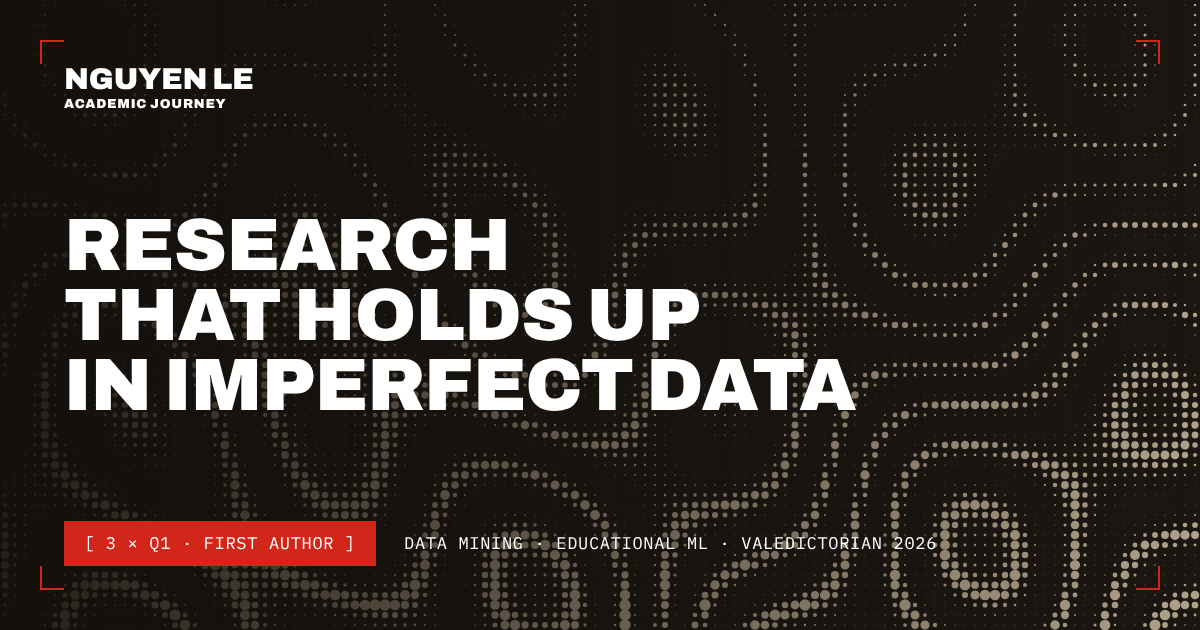
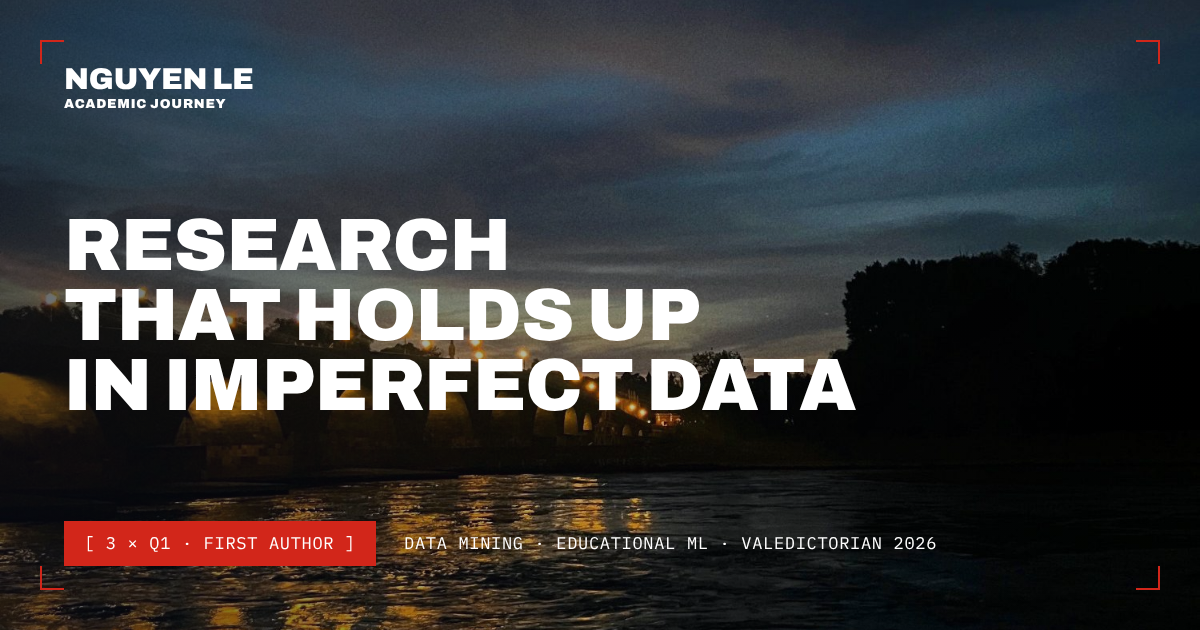
Cover photo, the Regensburg semester in depth, figures from PLOS ONE
- the owner's photo of the Stone Bridge, Regensburg, is the new home cover
  (wide/tall crops, WebP + JPEG, slow Ken Burns drift paused off-screen)
  and the Regensburg route image; Open Graph image rebuilt on it
- Regensburg route rewritten from the exchange report: eleven steps from
  the award to the return, four numbers, four lessons, and a map whose
  trips draw themselves on scroll (DrawSVG) along the Danube
- TUFCI page shows figures 2, 3 and 5 from the open-access PLOS ONE
  paper with CC BY credit
- real photos keep their colours; the film tone is for drawn plates

Claude-Session: https://claude.ai/code/session_01Q8sP7Lvae2Asv5Z9CJRCnd

diff --git a/portfolio/src/data/site.ts b/portfolio/src/data/site.ts
@@ -24,6 +24,7 @@ export type Route = {
   stats: { label: string; value: string }[];
   steps: { when: string; where: string; title: string; body: string }[];
   cta: { label: string; href: string };
+  figures?: { src: string; caption: string; credit: string }[]; // reusable figures from the paper
 };
 
 export const routes: Route[] = [
@@ -53,6 +54,11 @@ export const routes: Route[] = [
       { when: "17/06/2026", where: "PLOS ONE 21(6)", title: "Arrival", body: "Published as e0351951. Le, N., Vo, H., & Nguyen, T. Code and data on GitHub." },
     ],
     cta: { label: "Read in PLOS ONE", href: "https://doi.org/10.1371/journal.pone.0351951" },
+    figures: [
+      { src: "media/papers/tufci-fig2.webp", caption: "Fig 2. Traversal order. Depth-first search wastes work on low-support nodes before it reaches the strong one; best-first search visits it first, raises the threshold and prunes the rest.", credit: "Le, Vo & Nguyen (2026), PLOS ONE 21(6): e0351951, CC BY 4.0" },
+      { src: "media/papers/tufci-fig3.webp", caption: "Fig 3. Runtime against the external baselines TopKPFIM and ITUFP on Chess, Liquor, Mushrooms and Retail: 2–3× faster on dense data.", credit: "Le, Vo & Nguyen (2026), PLOS ONE 21(6): e0351951, CC BY 4.0" },
+      { src: "media/papers/tufci-fig5.webp", caption: "Fig 5. Closure checks with identical pruning: best-first search needs about 60% fewer than depth-first search.", credit: "Le, Vo & Nguyen (2026), PLOS ONE 21(6): e0351951, CC BY 4.0" },
+    ],
   },
   {
     id: "ptk-huim",
@@ -117,18 +123,26 @@ export const routes: Route[] = [
     months: 6,
     plate: "danube",
     teaser:
-      "From the Mekong to the Danube. An exchange semester at OTH Regensburg in Germany, funded by a merit-based TL-Stiftung scholarship. German began here; the first research project began right after.",
+      "From the Mekong to the Danube. Six months at OTH Regensburg on a TL-Stiftung scholarship: five courses, a data-science project built from scratch in three weeks, a study group of four nations working in Mandarin, and weekends from Pisa to Vienna.",
     overview:
-      "An exchange semester at Ostbayerische Technische Hochschule Regensburg, funded by a merit-based TL-Stiftung scholarship. German began here, and the first research project started in the semester after my return.",
+      "I found the TL-Stiftung scholarship two days before its deadline, renewed an expired passport in Can Tho after the award, and landed in Munich at 1 °C in March 2024. At OTH Regensburg, a partner university of Ton Duc Thang, I took five courses, among them Applied Python for Data Science, Natural Language Processing and German, and learned what self-directed study means: no attendance lists, lecturers who talk with students as peers, and classmates who live in the library.",
     stats: [
       { label: "Duration", value: "6 months" },
       { label: "Period", value: "03/2024 – 09/2024" },
       { label: "Funding", value: "TL-Stiftung scholarship" },
-      { label: "Language", value: "German A2" },
+      { label: "Courses", value: "5, plus audited classes" },
     ],
     steps: [
-      { when: "03/2024", where: "OTH Regensburg", title: "Departure", body: "Exchange semester on a merit-based TL-Stiftung scholarship." },
-      { when: "2024", where: "Germany", title: "A new language", body: "German starts with the exchange; today at A2." },
+      { when: "10/2023", where: "TL-Stiftung", title: "The award", body: "Found the scholarship two days before the deadline, applied with help from TDTU's INCRETI institute, interviewed, and was selected at the end of October." },
+      { when: "11/2023", where: "Can Tho", title: "Paperwork", body: "An expired passport, renewed in three to four weeks; then the learning agreement and the visa." },
+      { when: "03/2024", where: "Munich → Regensburg", title: "Arrival at 1 °C", body: "An OTH buddy, an hour on the train, and a Deutschlandticket that opened almost all public transport in Germany." },
+      { when: "Spring", where: "Old Town Hall", title: "Welcome", body: "International students were received by the city in Regensburg's historic Town Hall." },
+      { when: "Semester", where: "OTH Regensburg", title: "Five courses", body: "Applied Python for Data Science, a project built from scratch in three weeks; Natural Language Processing; German; and classes audited alongside." },
+      { when: "Semester", where: "Study group", title: "Four nations, one language", body: "Five students from Vietnam, Britain, Ireland and China, working together in Mandarin." },
+      { when: "04/2024", where: "Ice rink", title: "First time on ice", body: "A university ice-skating evening: several falls, then confidence." },
+      { when: "05/2024", where: "Pisa", title: "First trip abroad", body: "A night in Memmingen before a 6 a.m. flight, the Leaning Tower, and a beach triathlon straight out of Luca." },
+      { when: "End 05/2024", where: "Côte d'Azur", title: "Six cities", body: "Nice, Antibes, Cannes, Èze, Monaco on Formula 1 weekend, and Marseille." },
+      { when: "06/2024", where: "Salzburg · Vienna", title: "A favourite country", body: "Two visits to Austria: Salzburg, and Vienna in June." },
       { when: "09/2024", where: "Ho Chi Minh City", title: "Return", body: "Back home, and straight into the first research project." },
     ],
     cta: { label: "Write to me", href: "mailto:elio.ruanli@gmail.com" },
@@ -331,3 +345,47 @@ export const faq = [
   { q: "What are you working on now?", a: "I am a researcher at the Faculty of IT, Ton Duc Thang University, working with Assoc. Prof. Anh-Cuong Le." },
   { q: "How do I get in touch?", a: "By email at elio.ruanli@gmail.com." },
 ];
+
+/* ---------- the exchange semester (source: the owner's exchange report for TL-Stiftung) ---------- */
+
+export const exchangeFigures = [
+  { value: "1 °C", label: "on landing in Munich, March 2024: the first real cold" },
+  { value: "5", label: "courses taken at OTH Regensburg, with more audited" },
+  { value: "3 weeks", label: "to build the data-science project from scratch; at home it would have taken two months" },
+  { value: "4", label: "countries beyond Germany: Italy, France, Monaco and Austria" },
+];
+
+export const exchangeNotes = [
+  { title: "Self-directed study", body: "No attendance lists, and lecturers who treat students as peers. With only the course requirements to meet, I built my Python data-science project from scratch in three weeks and received the highest grade I had earned in so short a time." },
+  { title: "Ask in the moment", body: "My German classmates asked questions the second they had them and aimed for the top mark or nothing. I came home with the habit of asking during class, not after it." },
+  { title: "Protected time", body: "Cafés that close at six, shops shut on Sunday: rest is part of the plan, not what is left of it. It changed how I schedule research." },
+  { title: "An idea to bring home", body: "A supermarket checkout near my dorm recognised products without scanning, in under thirty seconds. It is the kind of applied machine learning I would like to build for shops in Vietnam." },
+];
+
+// Map stops: [name, longitude, latitude, label placement]
+export const exchangeMap = {
+  base: ["Regensburg", 12.1, 49.02] as const,
+  stops: [
+    ["Bamberg", 10.89, 49.89, "w"],
+    ["Munich", 11.58, 48.14, "s"],
+    ["Memmingen", 10.18, 47.99, "w"],
+    ["Pisa", 10.4, 43.72, "e"],
+    ["Monaco", 7.42, 43.74, "e"],
+    ["Nice", 7.26, 43.7, "n"],
+    ["Antibes", 7.12, 43.58, ""],
+    ["Cannes", 7.01, 43.55, ""],
+    ["Èze", 7.36, 43.73, ""],
+    ["Marseille", 5.37, 43.3, "s"],
+    ["Salzburg", 13.04, 47.81, "s"],
+    ["Vienna", 16.37, 48.21, "s"],
+  ] as const,
+  trips: [
+    ["Regensburg", "Bamberg"],
+    ["Regensburg", "Munich"],
+    ["Regensburg", "Memmingen", "Pisa"],
+    ["Regensburg", "Nice", "Antibes", "Cannes", "Marseille"],
+    ["Nice", "Èze", "Monaco"],
+    ["Regensburg", "Salzburg", "Vienna"],
+  ],
+  danube: [[9.99, 48.4], [11.42, 48.76], [12.1, 49.02], [13.46, 48.57], [14.29, 48.31], [15.6, 48.39], [16.37, 48.21]],
+};

diff --git a/portfolio/src/scripts/motion.ts b/portfolio/src/scripts/motion.ts
@@ -2,10 +2,11 @@ import gsap from "gsap";
 import { ScrollTrigger } from "gsap/ScrollTrigger";
 import { SplitText } from "gsap/SplitText";
 import { ScrambleTextPlugin } from "gsap/ScrambleTextPlugin";
+import { DrawSVGPlugin } from "gsap/DrawSVGPlugin";
 import Lenis from "lenis";
 import EmblaCarousel from "embla-carousel";
 
-gsap.registerPlugin(ScrollTrigger, SplitText, ScrambleTextPlugin);
+gsap.registerPlugin(ScrollTrigger, SplitText, ScrambleTextPlugin, DrawSVGPlugin);
 // Phones resize the viewport when the address bar shows/hides; don't recalculate every trigger then.
 ScrollTrigger.config({ ignoreMobileResize: true });
 
@@ -504,6 +505,36 @@ if (horizon && !reduce) {
   gsap.fromTo(horizon,
     { x: () => -frame.clientWidth * 0.62 },
     { x: 0, ease: "none", scrollTrigger: { trigger: frame, start: "top 85%", end: "center 45%", scrub: true, invalidateOnRefresh: true } });
+}
+
+/* ---------- cover photo: a slow Ken Burns drift, paused once the hero is gone ---------- */
+
+const coverPhoto = $<HTMLImageElement>("[data-hero-photo]");
+if (coverPhoto) {
+  const refresh = () => ScrollTrigger.refresh();
+  if (coverPhoto.complete) refresh(); else coverPhoto.addEventListener("load", refresh, { once: true });
+  if (!reduce) {
+    const drift = gsap.fromTo(coverPhoto, { scale: 1.1, xPercent: -1.5 }, { scale: 1.02, xPercent: 1.5, duration: 26, ease: "sine.inOut", repeat: -1, yoyo: true });
+    ScrollTrigger.create({
+      trigger: coverPhoto.closest("[data-hero]") ?? coverPhoto, start: "top bottom", end: "bottom top",
+      onToggle: (self) => (self.isActive ? drift.resume() : drift.pause()),
+    });
+  }
+}
+
+/* ---------- exchange map: trips draw themselves as the map scrolls in ---------- */
+
+const xmap = $("[data-xmap]");
+if (xmap && !reduce) {
+  const river = $$("[data-xmap-river]", xmap);
+  const trips = $$("[data-xmap-trip]", xmap);
+  const stops = $$("[data-xmap-stop]", xmap);
+  const tl = gsap.timeline({ scrollTrigger: { trigger: xmap, start: "top 80%", end: "bottom 70%", scrub: 0.6 } });
+  tl.from(river, { drawSVG: "0%", duration: 1, ease: "none" }, 0)
+    .from(stops, { opacity: 0, scale: 0.4, transformOrigin: "50% 50%", stagger: 0.06, duration: 0.3 }, 0.1)
+    .from(trips, { drawSVG: "0%", duration: 1.4, stagger: 0.25, ease: "none" }, 0.3);
+  const pulse = $("[data-xmap-pulse]", xmap);
+  if (pulse) gsap.fromTo(pulse, { scale: 0.6, opacity: 0.9, svgOrigin: `${pulse.dataset.cx} ${pulse.dataset.cy}` }, { scale: 1.8, opacity: 0, duration: 1.8, ease: "power1.out", repeat: -1, svgOrigin: `${pulse.dataset.cx} ${pulse.dataset.cy}` });
 }
 
 /* ---------- nav: which section am I in ---------- */

diff --git a/portfolio/CLAUDE.md b/portfolio/CLAUDE.md
@@ -23,7 +23,7 @@ photos, video, logo or brand. All content comes from `docs/content.md`.
 
 ## Sections (map of reference → this site)
 Home (`src/pages/index.astro`):
-1. Hero: full-bleed animated halftone contour canvas, uppercase headline, scrambled intro, red CTA.
+1. Hero: full-bleed cover photo (Ken Burns drift, parallax), uppercase headline, scrambled intro, red CTA.
 2. Founder: ruled 3-column grid — halftone portrait (public/portrait.jpg or monogram), text, facts.
 3. Routes: pinned list (name + length) · fixed crop frame with [ DISCOVER ] · scrambled teaser;
    film plates scroll under the frame. Each route has a detail page.
@@ -36,7 +36,8 @@ Home (`src/pages/index.astro`):
 9. Footer: big email in a crop frame, Scholar, ORCID, CV when public/cv.pdf exists.
 Route pages (`src/pages/routes/[id].astro`): plate hero, stat row, "What the paper found"
 (PaperDepth: summary, count-up figures, BarChart, contributions, data), N-month overview itinerary,
-CTA, "Continue exploring" cards.
+CTA, "Continue exploring" cards. TUFCI adds PaperFigures (open-access figures); Regensburg adds
+Exchange (numbers, notebook, a DrawSVG map of every trip).
 
 ## Motion rules
 - Smoothness first: never redraw canvases or SVG filters per frame; animate pre-rendered

diff --git a/portfolio/docs/content.md b/portfolio/docs/content.md
@@ -55,3 +55,14 @@
 - Messaging link: TODO
 - CV PDF: TODO — the DAAD CV contains phone, birth date, address and referees' emails; publish a
   trimmed version as `public/cv.pdf` and the footer link appears automatically.
+
+## Exchange semester (source: the owner's TL-Stiftung exchange report, "DangNguyenLe-3.pdf")
+- Regensburg route, `exchangeFigures`, `exchangeNotes` and the trip map in `src/data/site.ts` are
+  taken from that report. Left out on purpose (personal or sensitive for a public profile):
+  political comparisons, the Marseille incident, named individuals, private anecdotes.
+
+## Images
+- Cover: the owner's photo of the Stone Bridge, Regensburg (public/media/cover-*.{jpg,webp},
+  also used as public/media/regensburg.jpg for the route).
+- Paper figures: PLOS ONE figures 2, 3, 5 (CC BY 4.0, credited). ESWA figures are not reused
+  (Elsevier, all rights reserved); JKSU figures wait until the article is published.
